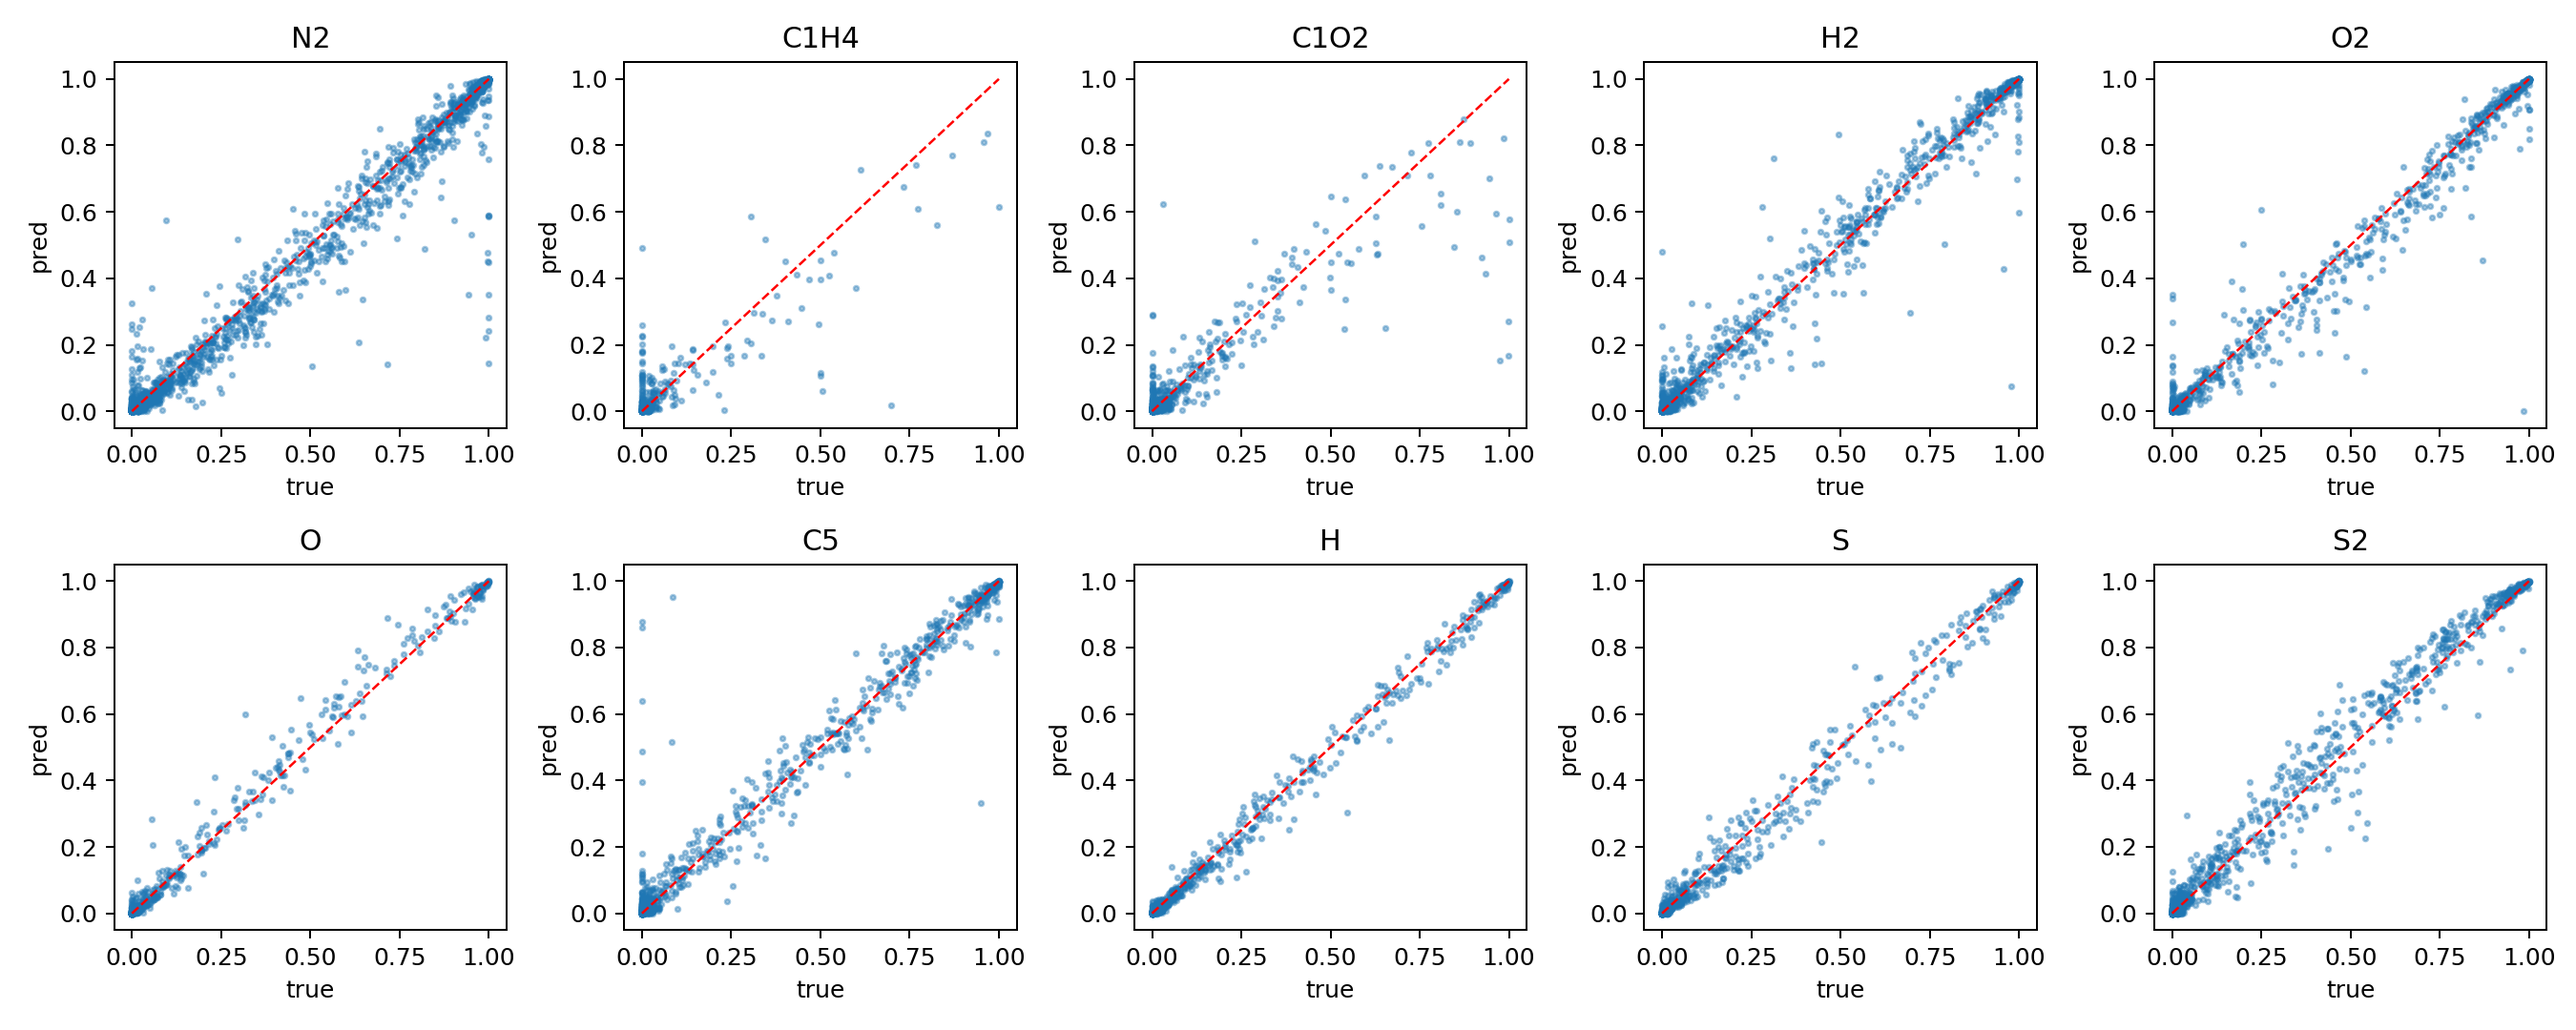
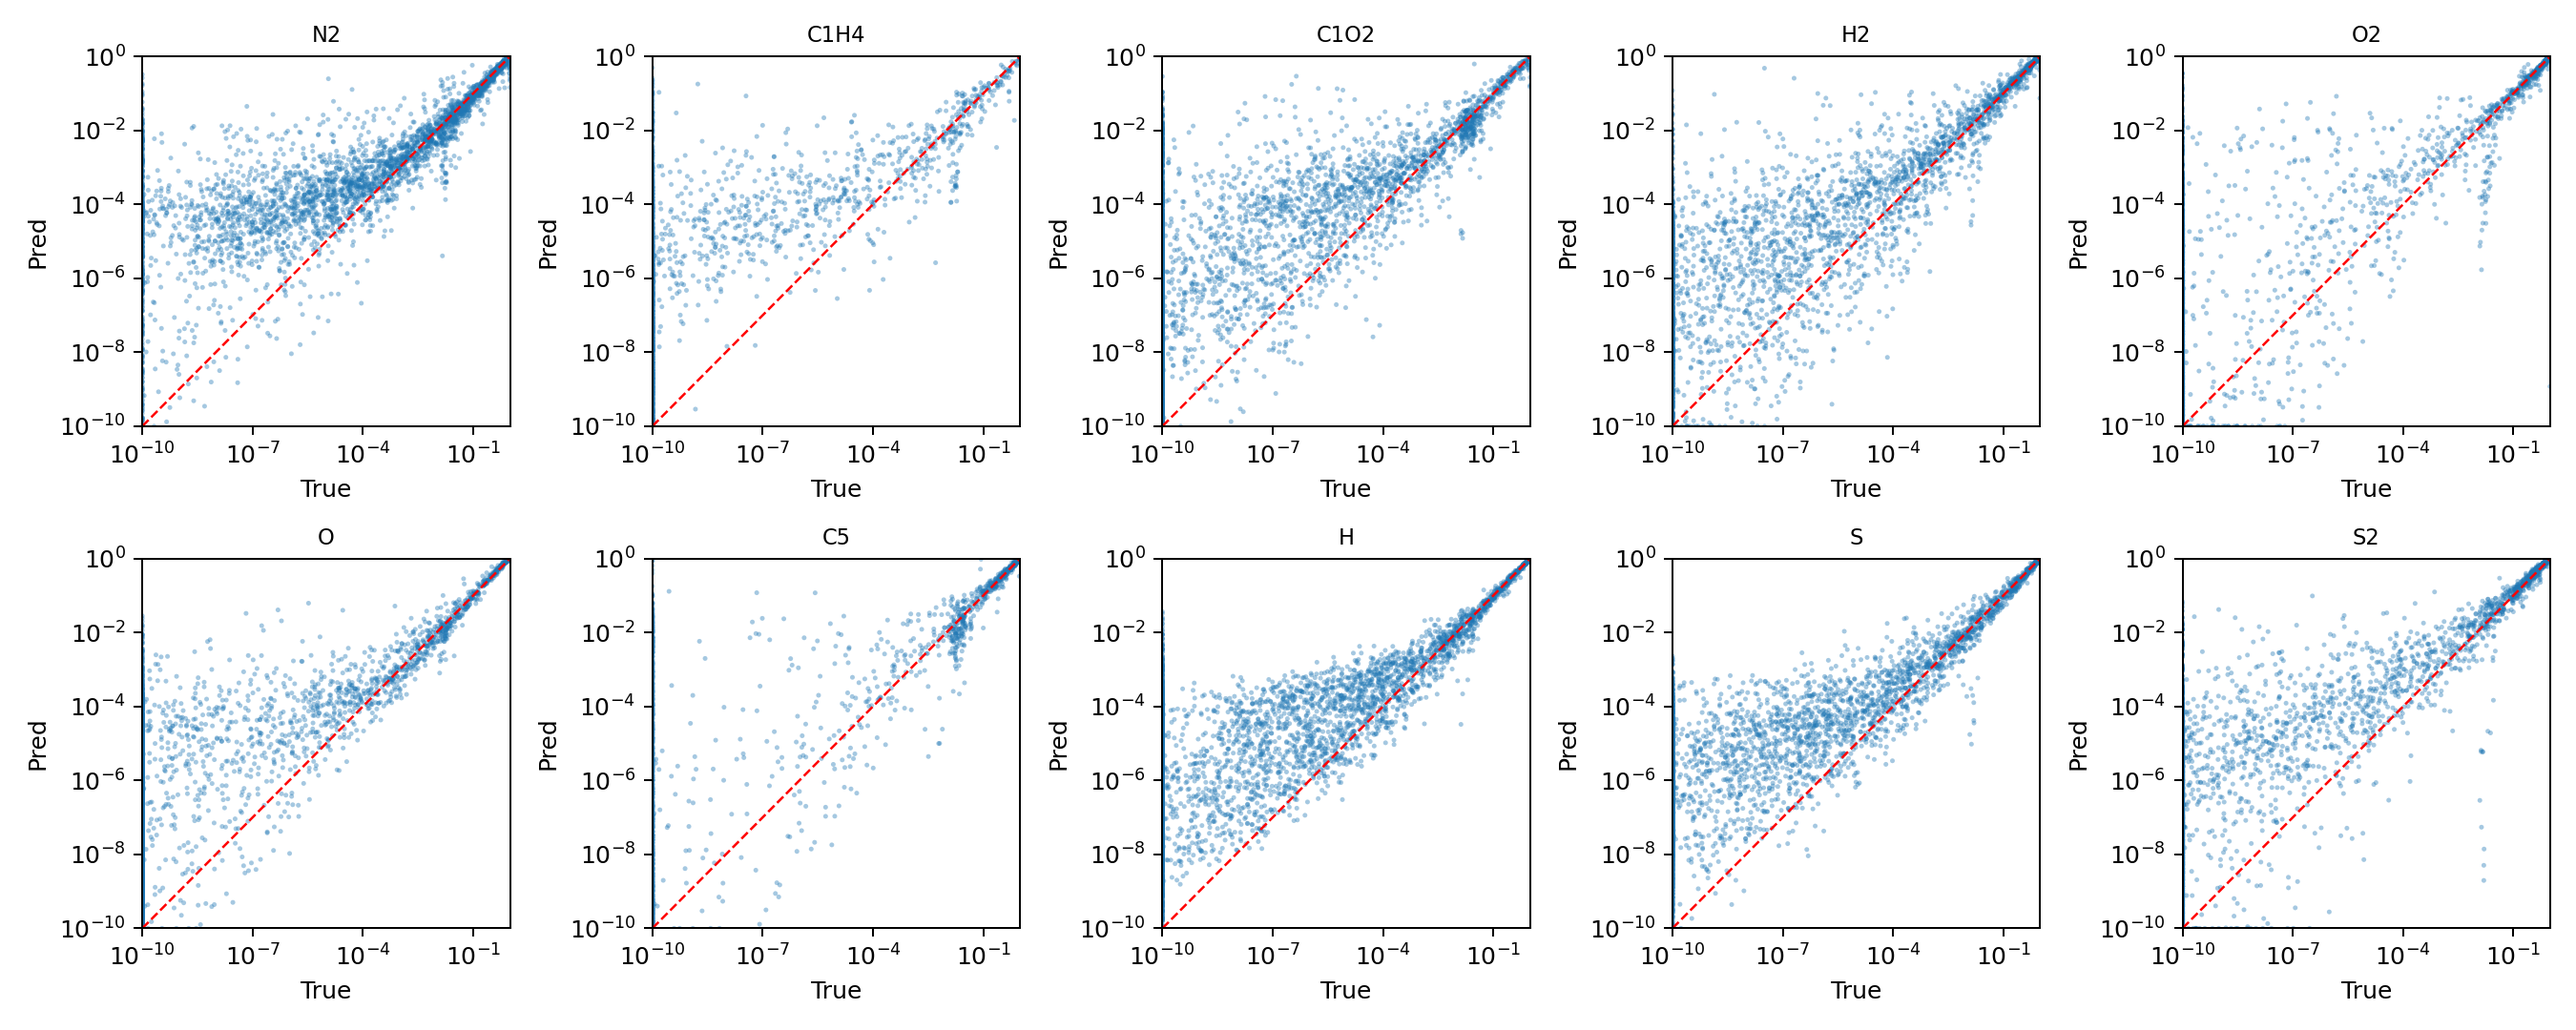
Added some diagnostics V1

diff --git a/work_apr/backedup_diagnostics.py b/work_apr/backedup_diagnostics.py
@@ -1,4 +1,5 @@
 
+
 #!/usr/bin/env python3
 # step5_diagnostics.py  –  deep‑dive error analysis for the FastChem surrogate
 # ---------------------------------------------------------------------------
@@ -63,80 +64,50 @@ tbl    = pd.DataFrame({"species":SPECIES, "MAE":mae_sp, "R2":r2_sp})
 tbl.sort_values("MAE").to_csv(os.path.join(OUT_DIR, "per_species_errors.csv"), index=False)
 
 # ──────────────────────────────────────────────────────────────────────────
-# 4)  parity plot for the TOP-10 most abundant species (overall)
-#     • axes on log–log scale, 1 × 10⁻¹⁰ … 1
-#     • values <1e-10 are clipped for display (they’re still in the metrics)
+# 4)  parity plot for the TOP‑10 most abundant species (overall)
 # ──────────────────────────────────────────────────────────────────────────
-CLIP = 1e-10                     # anything below this is shown at the floor
-top10 = (Y_true.max(axis=0)).argsort()[-10:][::-1]
-
-fig, axs = plt.subplots(2, 5, figsize=(15, 6))
+top10 = (Y_true.max(axis=0)).argsort()[-10:][::-1]     # indices of 10 highest‑peak species
+fig, axs = plt.subplots(2,5, figsize=(15,6))
 axs = axs.ravel()
-
 for ax, idx in zip(axs, top10):
-    true = np.clip(Y_true[:, idx], CLIP, None)
-    pred = np.clip(Y_pred[:, idx], CLIP, None)
-
-    ax.scatter(true, pred, s=4, alpha=0.4, edgecolor="none")
-    ax.set_xscale("log"); ax.set_yscale("log")
-    ax.set_xlim(CLIP, 1.0); ax.set_ylim(CLIP, 1.0)
-    ax.plot([CLIP, 1.0], [CLIP, 1.0], 'r--', lw=1)
-    ax.set_title(SPECIES[idx], fontsize=9)
-    ax.set_xlabel("True"); ax.set_ylabel("Pred")
-
+    ax.scatter(Y_true[:,idx], Y_pred[:,idx], s=4, alpha=0.4)
+    lim = [0, max(Y_true[:,idx].max(), Y_pred[:,idx].max())]
+    ax.plot(lim, lim, 'r--', lw=1)
+    ax.set_title(SPECIES[idx])
+    ax.set_xlabel("true"); ax.set_ylabel("pred")
 plt.tight_layout()
 plt.savefig(os.path.join(OUT_DIR, "parity_top10.png"), dpi=180)
 plt.close()
 
 # ──────────────────────────────────────────────────────────────────────────
-# 5)  residual heat-map in T–P space for the single worst-MAE species
-#     (unchanged apart from section number)
+# 5)  residual heat‑map in T–P space for the single worst‑MAE species
 # ──────────────────────────────────────────────────────────────────────────
 worst_idx = mae_sp.argmax()
 sp        = SPECIES[worst_idx]
-residual  = Y_pred[:, worst_idx] - Y_true[:, worst_idx]
+residual  = (Y_pred[:,worst_idx] - Y_true[:,worst_idx])
 
-plt.figure(figsize=(6, 4.5))
+plt.figure(figsize=(6,4.5))
 sc = plt.scatter(df["temperature"], np.log10(df["pressure"]),
                  c=residual, cmap="coolwarm", s=8)
 plt.colorbar(sc, label="Pred − True")
-plt.xlabel("Temperature [K]")
-plt.ylabel("log10 Pressure [bar]")
-plt.title(f"Residuals | worst-MAE species: {sp}")
+plt.xlabel("Temperature [K]")
+plt.ylabel("log10 Pressure [bar]")
+plt.title(f"Residuals for worst‑MAE species : {sp}")
 plt.tight_layout()
 plt.savefig(os.path.join(OUT_DIR, f"residual_TP_{sp}.png"), dpi=180)
 plt.close()
 
 # ──────────────────────────────────────────────────────────────────────────
-# 6)  MAE vs. species (bar chart – optional, unchanged)
+# 6)  MAE vs. species (bar chart – optional)
 # ──────────────────────────────────────────────────────────────────────────
-plt.figure(figsize=(12, 4))
+plt.figure(figsize=(12,4))
 rank = np.argsort(mae_sp)
 plt.bar(np.arange(len(SPECIES)), mae_sp[rank])
-plt.xticks(np.arange(len(SPECIES)), np.array(SPECIES)[rank],
-           rotation=90, fontsize=6)
+plt.xticks(np.arange(len(SPECIES)), np.array(SPECIES)[rank], rotation=90, fontsize=6)
 plt.ylabel("MAE")
-plt.title("Per-species MAE (sorted)")
+plt.title("Per‑species MAE (sorted)")
 plt.tight_layout()
 plt.savefig(os.path.join(OUT_DIR, "MAE_per_species.png"), dpi=180)
 plt.close()
-
-# ──────────────────────────────────────────────────────────────────────────
-# 7)  NEW  –  sample-wise deviation plot
-#     • deviation = mean(|Pred − True|) across the 116 species
-#     • plotted for every sample (x-axis = dataset index)
-# ──────────────────────────────────────────────────────────────────────────
-sample_dev = np.abs(Y_pred - Y_true).mean(axis=1)     # absolute‐error per case
-
-plt.figure(figsize=(10, 3))
-plt.plot(np.arange(len(sample_dev)), sample_dev, '.',
-         markersize=3, alpha=0.6)
-plt.xlabel("Sample index (case #)")
-plt.ylabel("Mean abs. error")
-plt.title("Per-sample deviation:  ⟨|Pred − True|⟩ over 116 species")
-plt.tight_layout()
-plt.savefig(os.path.join(OUT_DIR, "sample_deviation.png"), dpi=180)
-plt.close()
-
 
 print("\nDiagnostics written to:", OUT_DIR)
